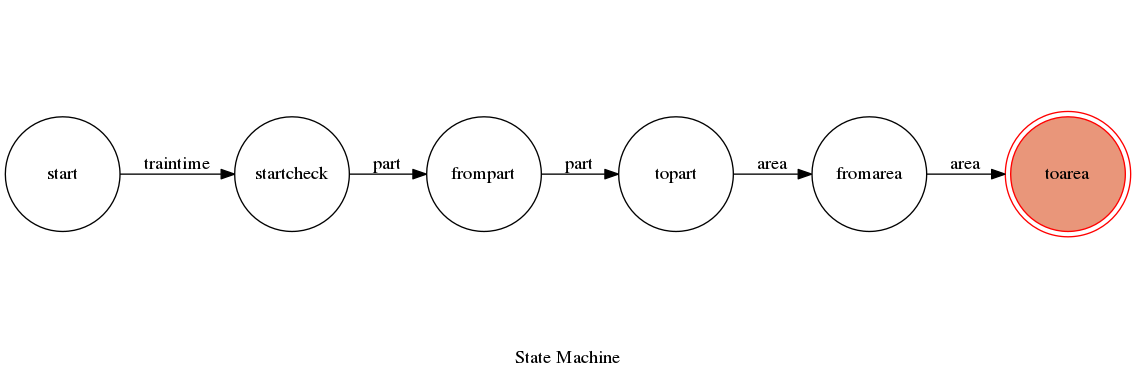
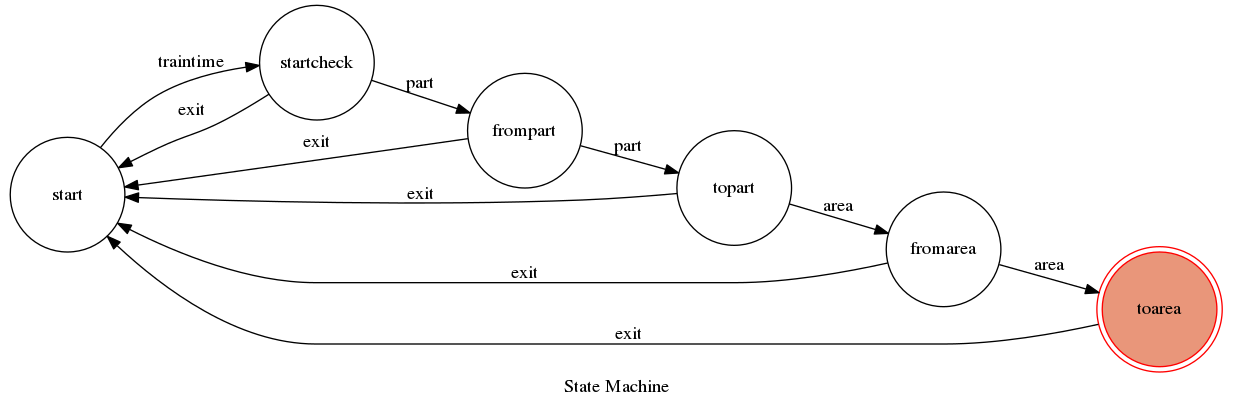
Complete the README.md

diff --git a/fsm.py b/fsm.py
@@ -9,6 +9,11 @@ transition = [
 	{'trigger': 'part', 'source': 'frompart', 'dest': 'topart'},
 	{'trigger': 'area', 'source': 'topart', 'dest': 'fromarea'},
 	{'trigger': 'area', 'source': 'fromarea', 'dest': 'toarea'},
+	{'trigger': 'exit', 'source': 'startcheck', 'dest': 'start'},
+	{'trigger': 'exit', 'source': 'frompart', 'dest': 'start'},
+	{'trigger': 'exit', 'source': 'topart', 'dest': 'start'},
+	{'trigger': 'exit', 'source': 'fromarea', 'dest': 'start'},
+	{'trigger': 'exit', 'source': 'toarea', 'dest': 'start'},
 ]
 
 class traintime(object):
